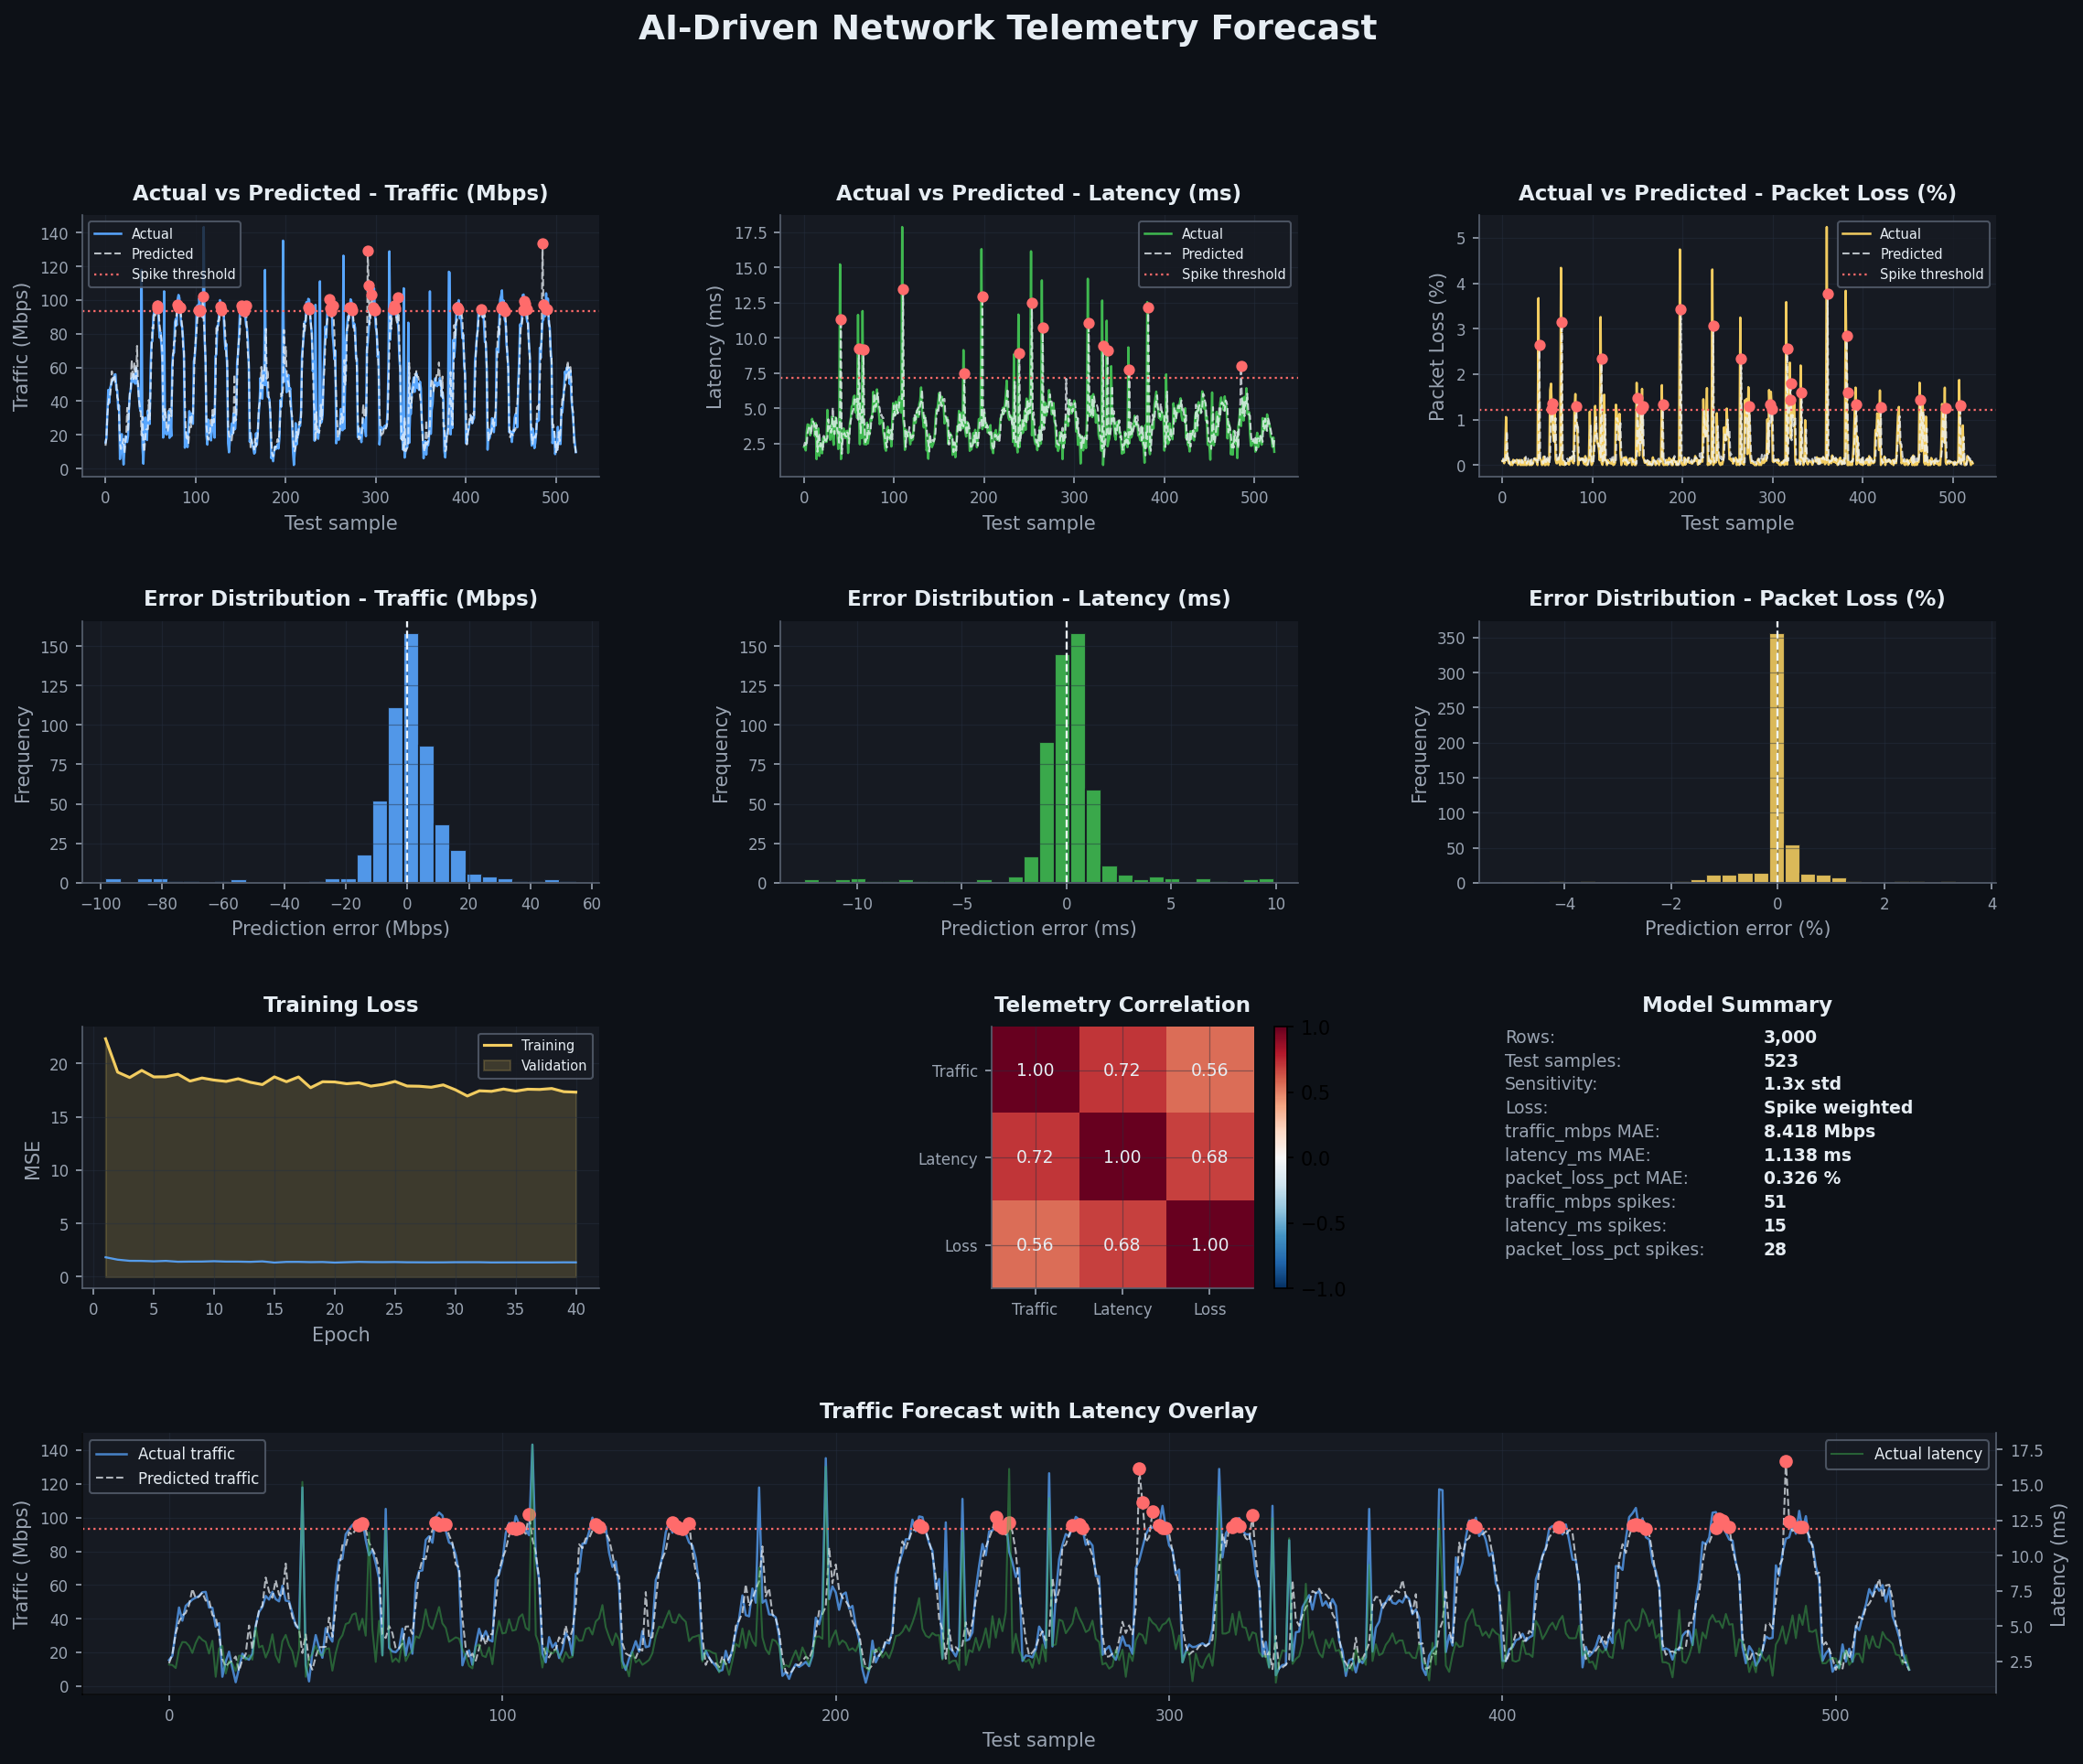
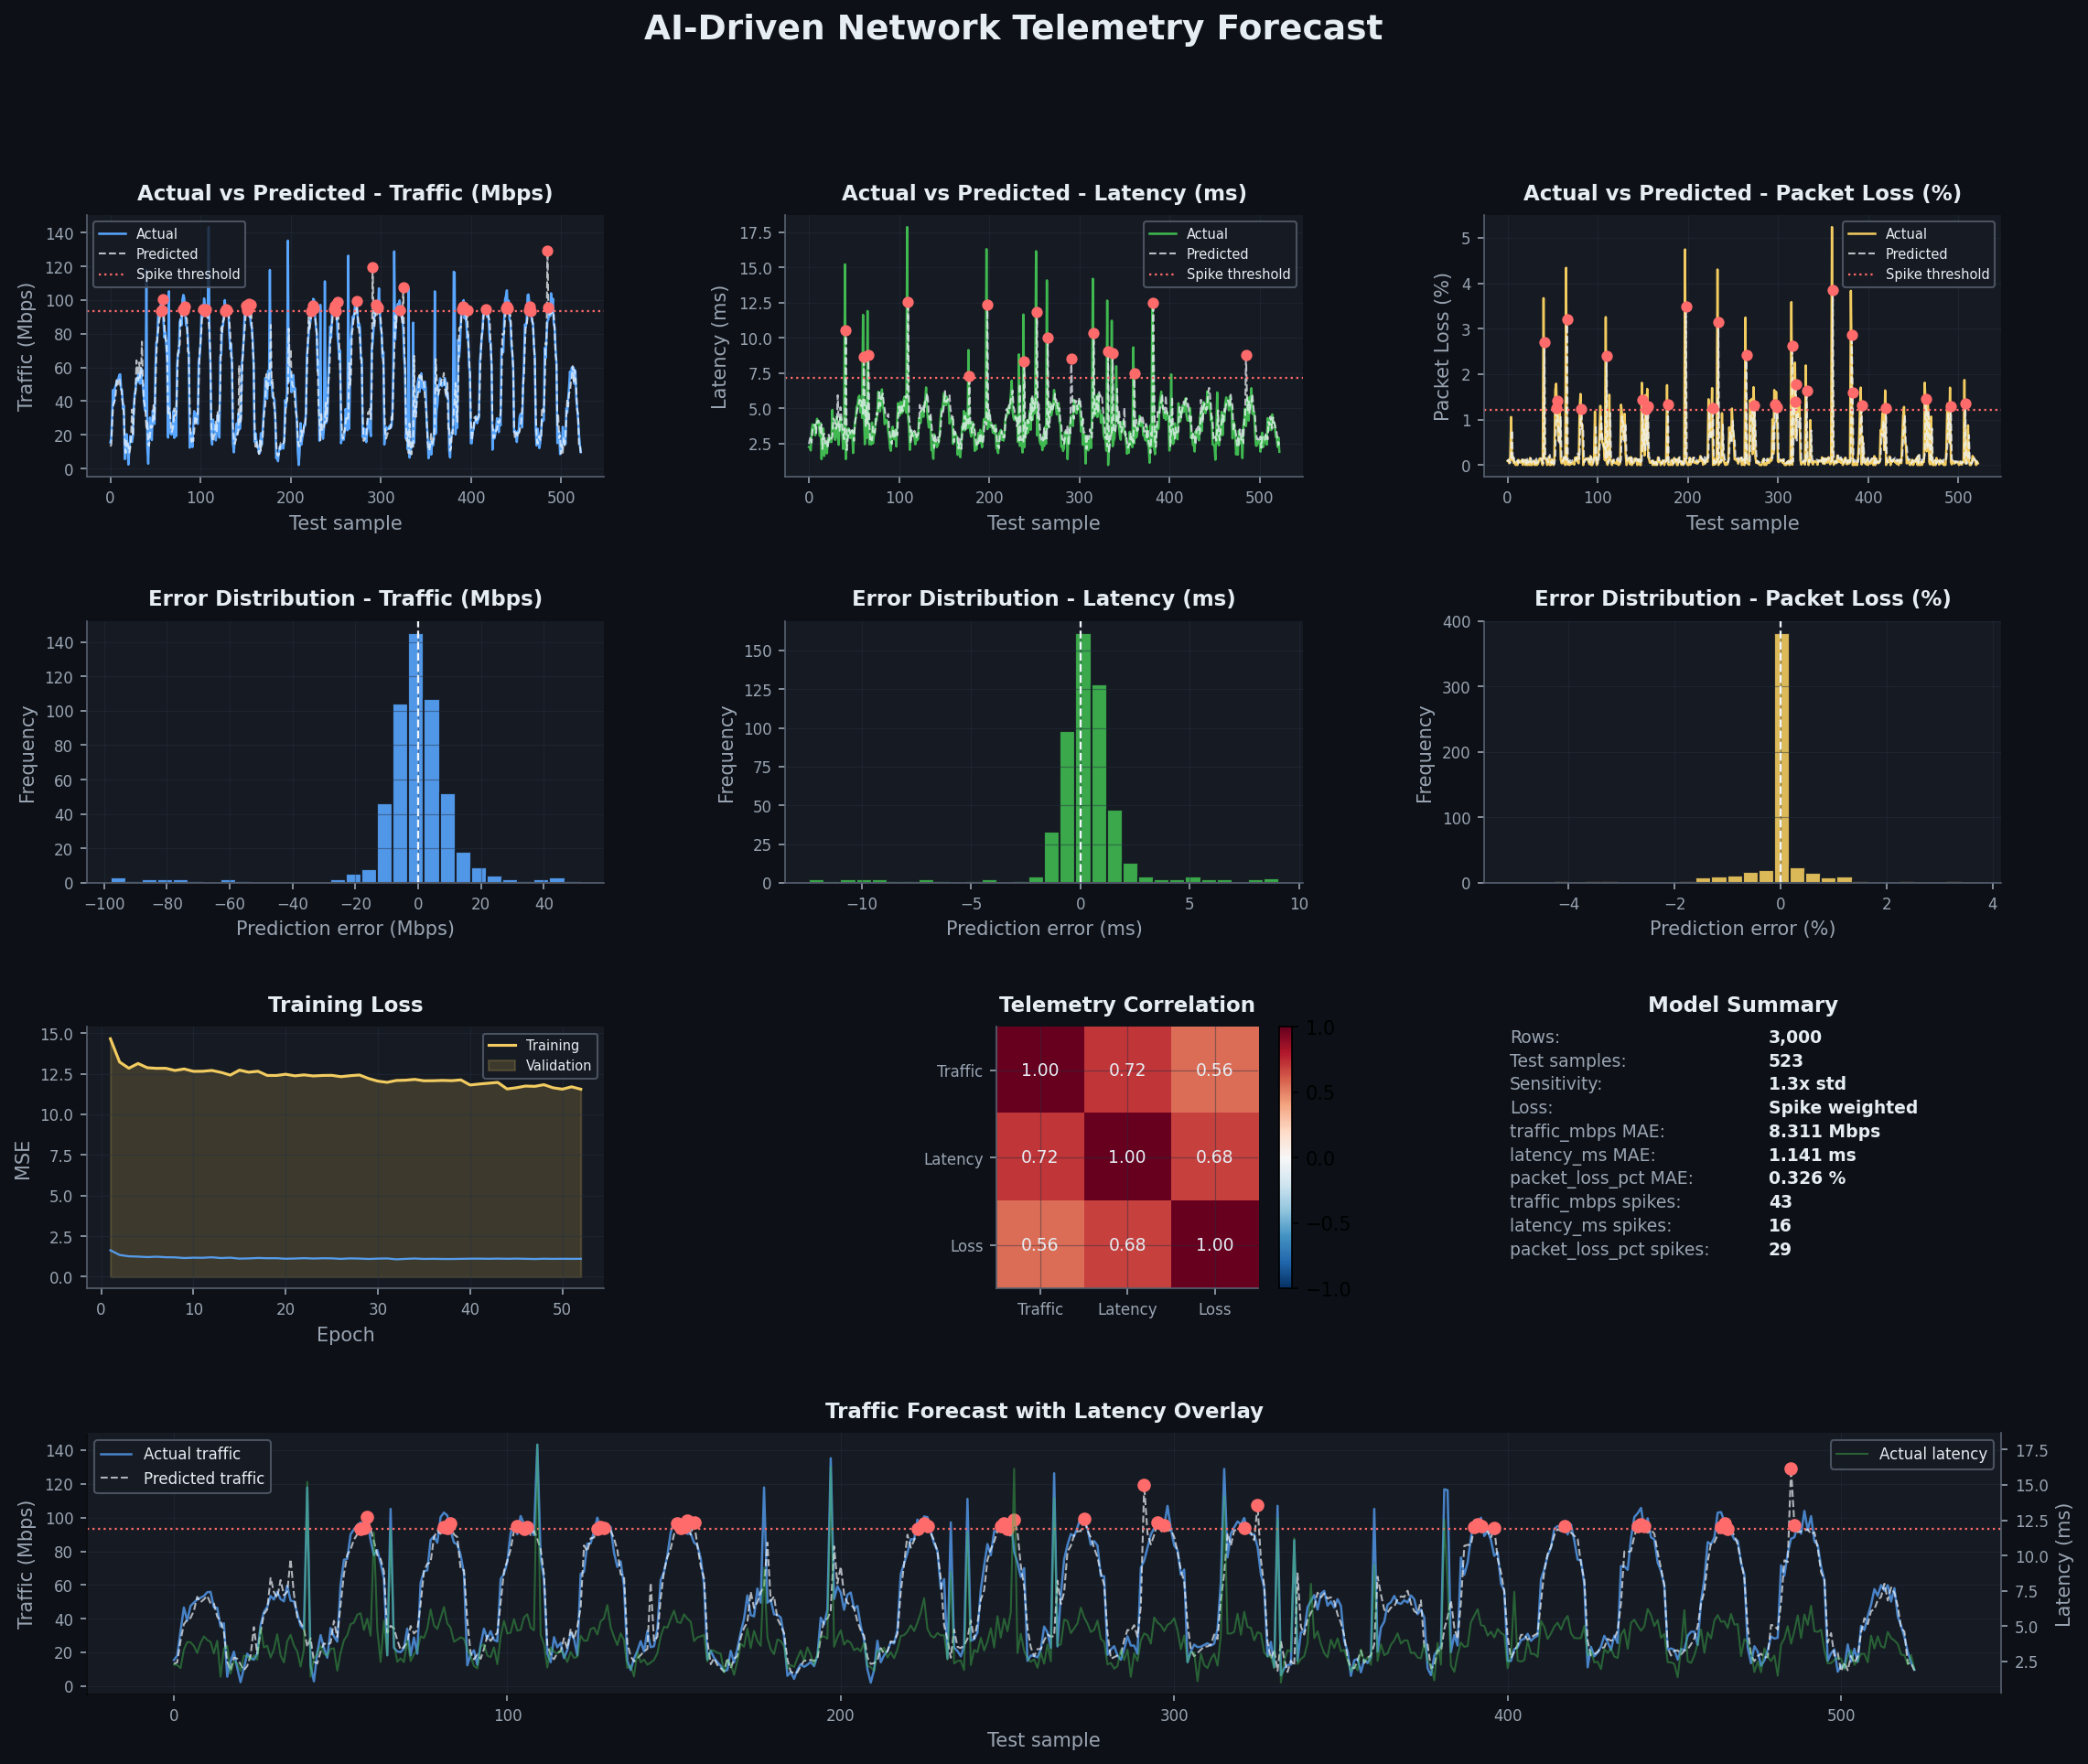
Replace README Kaggle demo with generic telemetry

diff --git a/README.md b/README.md
@@ -209,9 +209,9 @@ use the baseline/ablation outputs before making claims about improvement.
 The primary checked-in evidence run is the best measured 2000-row synthetic
 benchmark from the V4 self-learning loop. It reached `83.6%` normalized quality,
 beat the persistence baseline on every tracked KPI, and passed the traffic spike
-gate with `0.851` traffic spike F1. Kaggle artifacts are still included as a
-harder external-data reference, but the headline numbers below use the stronger
-synthetic run.
+gate with `0.851` traffic spike F1. The secondary checked-in demo now uses the
+generic `ml/telemetry.csv` path instead of the older Kaggle converted-flow demo,
+because it better represents the repository's local reusable CSV workflow.
 
 Synthetic command:
 
@@ -220,13 +220,10 @@ python ml\generate_data.py --hours 2000 --output runs\v4_synthetic_input\raw_dat
 python ml\auto_benchmark.py --data runs\v4_synthetic_input\raw_data\telemetry.csv --output-dir runs\v4_syn --target-quality 90 --max-attempts 15 --sync-docs --docs-prefix synthetic_
 ```
 
-Kaggle command:
+Generic telemetry command:
 
 ```powershell
-python ml\load_kaggle_data.py --rows 5000 --output runs\spec_kaggle\raw_data\telemetry.csv --augment --seed 42
-python ml\enhanced_train.py --data runs\spec_kaggle\raw_data\telemetry.csv --output-dir runs\spec_kaggle_delta --epochs 60 --sequence-length 48 --spike-weight 6
-python ml\visualize.py --data runs\spec_kaggle\raw_data\telemetry.csv --output-dir runs\spec_kaggle_delta --sensitivity 1.3
-python ml\evaluate_model.py --run-dir runs\spec_kaggle_delta --export-docs --docs-prefix kaggle_
+python ml\self_improve.py --data ml\telemetry.csv --output-dir runs\generic_self_continue --target-quality 90 --max-rounds 1 --attempts-per-round 4 --sync-docs --docs-prefix generic_
 ```
 
 Dashboard examples:
@@ -235,15 +232,15 @@ Dashboard examples:
 
 ![Synthetic model evaluation dashboard](docs/images/synthetic_model_evaluation_dashboard.png)
 
-![Kaggle traffic prediction dashboard](docs/images/kaggle_traffic_prediction_dashboard.png)
+![Generic telemetry traffic prediction dashboard](docs/images/generic_traffic_prediction_dashboard.png)
 
-![Kaggle model evaluation dashboard](docs/images/kaggle_model_evaluation_dashboard.png)
+![Generic telemetry model evaluation dashboard](docs/images/generic_model_evaluation_dashboard.png)
 
 Tracked evidence files:
 
-- `docs/results/kaggle_evaluation_summary.json`
-- `docs/results/kaggle_evaluation_baselines.csv`
-- `docs/results/kaggle_evaluation_spikes.csv`
+- `docs/results/generic_evaluation_summary.json`
+- `docs/results/generic_evaluation_baselines.csv`
+- `docs/results/generic_evaluation_spikes.csv`
 - `docs/results/synthetic_evaluation_summary.json`
 - `docs/results/synthetic_evaluation_baselines.csv`
 - `docs/results/synthetic_evaluation_spikes.csv`
@@ -254,6 +251,7 @@ Latest measured synthetic summary:
 | Dataset | Rows | Epochs | Quality | MAE vs Persistence | Beats Persistence Every Feature | Traffic Spike F1 Gate |
 |---|---:|---:|---:|---:|---|---|
 | Synthetic | 2000 | 59 | 83.6% | +25.2% | Yes | Yes |
+| Generic telemetry | 3000 | 52 | 81.2% | +18.4% | Yes | Yes |
 
 Per-feature MAE from the 83.6% synthetic evidence run:
 
@@ -267,9 +265,9 @@ The requested `>=90%` quality target was not reached in these measured runs.
 The 83.6% synthetic run passes the concrete baseline and traffic-spike gates;
 the remaining failed gate is `quality_ge_90`. The best checked-in synthetic
 candidate was `hybrid_low_quantile` after 15 local V4 attempt folders. The
-Kaggle converted-flow run remains too close to persistence and still has weak
-traffic spike F1, so it is treated as a limitation rather than the headline
-result.
+generic `ml/telemetry.csv` demo reached `81.2%` normalized quality with `0.810`
+traffic spike F1. It also remains below the requested `>=90%` gate, so it is
+shown as supporting evidence rather than the headline result.
 
 The current sequence ablation smoke run from `ml/compare_sequence_models.py`
 used the synthetic 2000-row evidence data for 20 epochs and showed: